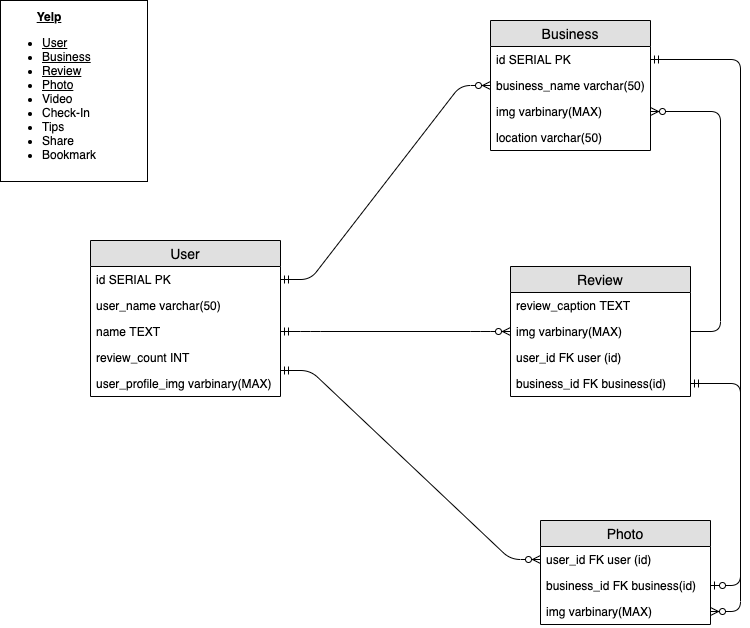
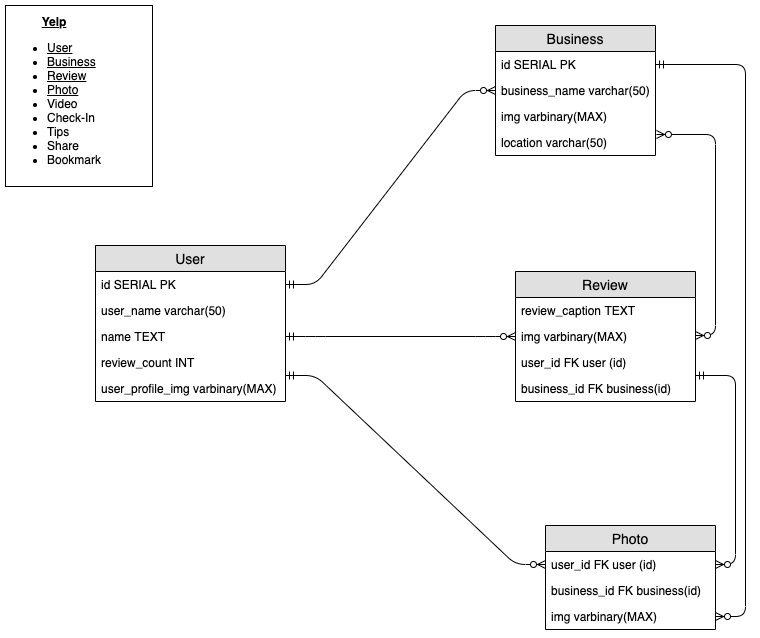
added clarity to ERD

diff --git a/erd.md b/erd.md
@@ -1,7 +1,13 @@
-A user is able to add reviews and photos on to the profile of a businesses on yelp. This review populates their own profile with reviews they have given and the business profile of reviews that have been received. Businesses are in able to reply to users reviews.
+A user is able to write and add many reviews and photos on to the profile of a businesses on yelp. A business profile can have many reviews. Businesses are in reply to many reviews.
 
 ![](yelp-model.png)
 
-A user has an ability to view, review, and follow many businesses.
-A user has an ability to write multiple reviews of a business and review multiple other businesses one at a time. A business can have zero to many reviews. A user and a business are able to upload zero to many photos and a user is able to upload 0 to many photos on a review.
-One review is able have many photos.
+**one to many**  
+One user can follow 0 to many businesses    
+One user can write 0 to many reviews    
+One user can upload 0 to many phots  
+One business can upload 0 to many photos
+One review can have many 0 to many photos
+
+**many to many**  
+Many businesses can have many reviews  
